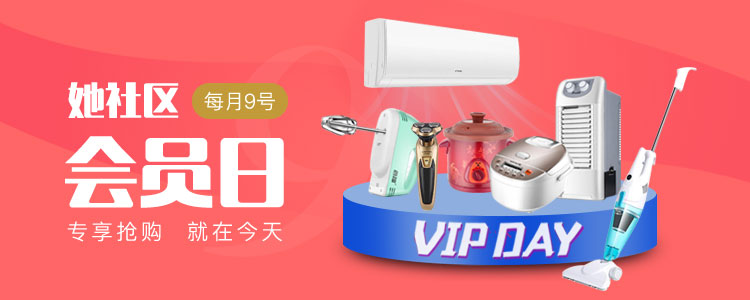
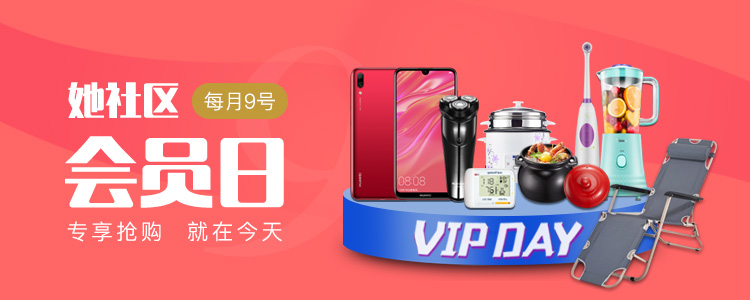
optimize

Changed region(s): [[0.4293, 0.06, 0.9813, 0.99], [0.276, 0.33, 0.368, 0.36]]

diff --git a/src/components/SideButton/SideButton.jsx b/src/components/SideButton/SideButton.jsx
@@ -1,0 +1,139 @@
+import React, { Component } from 'react'
+import { connect } from 'react-redux'
+import { bindActionCreators } from 'redux'
+
+import { Toast } from 'antd-mobile'
+import { _getQueryString, _send1_1 } from '@/common/js/tool'
+import { fetchCSJVideoStatus, fetchInteractiveAdList, reportInteractiveAdAction } from '@/API/ad'
+
+import * as homeActions from '@actions/homeActions'
+
+import './sideButton.scss'
+
+
+// 激励视频关闭
+const reward = {
+  rewardVerify: false, // 是否获得奖励
+  rewardAmount: 0, // 奖励个数
+  rewardName: '' // 奖励名称
+}
+
+class SideButton extends Component {
+
+  slotId = 0
+
+  constructor(props) {
+    super(props)
+    this.state = {
+      CAN_PLAY_JVIDEO: false,
+      adInfo: null
+    }
+    window.SideButtonContext = this
+  }
+
+  adClickHandler = () => {
+
+
+    const adInfo = this.state.adInfo
+    if (adInfo.promoType === 2) {
+      // 激励视频
+
+      this.slotId = _getQueryString('jcnsource') === 'ios' ? adInfo.iosCodePosition : adInfo.androidCodePosition
+      _send1_1('coinmall-click-' + this.state.adInfo.id, 'interact-ad', function () {
+        window.app_interface &&
+        window.app_interface.showTouTiaoRewardVideo(this.slotId)
+      })
+    } else if (adInfo.promoType === 1) {
+      // 普通链接
+      _send1_1('coinmall-click-' + this.state.adInfo.id, 'interact-ad', function () {
+        window.location.href = adInfo.promoUrl
+      })
+    }
+  }
+
+  componentDidMount() {
+    this.fetchInteractiveAdList()
+  }
+
+  // 互动广告上报
+  reportInteractiveAdAction = () => {
+    reportInteractiveAdAction({
+      adId: this.state.adInfo.id,
+      app: 'hers',
+      jcnappid: _getQueryString('jcnappid'),
+      v: _getQueryString('v')
+    })
+  }
+
+  // 获取激励视频信息
+  async fetchCSJVideoStatus(status) {
+    const res = await fetchCSJVideoStatus({ id: this.slotId }).then(res => res.data)
+    this.setState({ CAN_PLAY_JVIDEO: res.watchCount === 0 })
+    if (status === 'update') {
+      // 激励视频观看完毕之后更新用户信息（金币）
+      this.props.homeActions.getHomePageData()
+    }
+  }
+
+  // 获取互动广告悬浮按钮信息
+  async fetchInteractiveAdList() {
+    const adInfoList = await fetchInteractiveAdList({
+      app: 'hers',
+      channelId: 7,
+      jcnappid: _getQueryString('jcnappid'),
+      v: _getQueryString('v'),
+      requestTimestamp: new Date().getTime()
+    }).then(res => res.data.adInfoList)
+    this.setState({ adInfo: adInfoList[0] })
+    if (adInfoList[0] && adInfoList[0].promoType === 2) {
+      this.fetchCSJVideoStatus() // 加载激励视频播放次数信息
+    }
+    if (adInfoList[0]) {
+      _send1_1('coinmall-show-' + this.state.adInfo.id, 'interact-ad')
+    }
+  }
+
+  render() {
+    const adInfo = this.state.adInfo
+    let renderHtml = null
+    if (adInfo) {
+      if (adInfo.promoType === 2) {
+        // 激励视频
+        if (this.state.CAN_PLAY_JVIDEO) {
+          renderHtml = <div className="j-video-com" onClick={this.adClickHandler}>
+            <img src={this.state.adInfo.promoIconUrl} alt="" />
+          </div>
+        }
+      } else if (adInfo.promoType === 1) {
+        renderHtml = <div className="j-video-com" onClick={this.adClickHandler}>
+          <img src={this.state.adInfo.promoIconUrl} alt="" />
+        </div>
+      }
+    }
+    return renderHtml
+  }
+}
+
+window.onToutiaoVideoAdClose = function () {
+  if (parseInt(reward.rewardVerify) === 1 || reward.rewardVerify === true) {
+    // 可以观看并获得奖励
+    if (window.SideButtonContext.state.CAN_PLAY_JVIDEO) {
+      Toast.info(reward.rewardName + '+' + reward.rewardAmount, 2, () => {
+        window.SideButtonContext.fetchCSJVideoStatus('update')
+        window.SideButtonContext.reportInteractiveAdAction()
+      })
+    }
+  }
+}
+// 激励视频获得奖励
+window.onToutiaoVideoAdVerify = function (rewardVerify, rewardAmount, rewardName) {
+  reward.rewardVerify = rewardVerify
+  reward.rewardAmount = rewardAmount
+  reward.rewardName = rewardName
+}
+
+export default connect(() => ({}), dispatch => {
+  return {
+    homeActions: bindActionCreators(homeActions, dispatch)
+  }
+})(SideButton)

diff --git a/src/pages/GoodsDetail/GoodsDetail.jsx b/src/pages/GoodsDetail/GoodsDetail.jsx
@@ -18,7 +18,6 @@ import ConfirmModal from '@components/ConfirmModal/ConfirmModal'
 //css
 import './goodsDetail.scss'
 import CountDown from '@/components/CountDown'
-import Jvideo from '@/components/Jvideo/Jvideo'
 
 
 // 秒杀组件
@@ -234,7 +233,7 @@ class GoodsDetail extends Component {
   }
 
   goMakeMoney = () => {
-    window.location.href = 'http://bbs.j.cn/html/cointask/task-index.html'
+    window.location.href = 'https://bbs.j.cn/html/cointask/coin-task.html'
   }
 
   // 会员升级
@@ -504,7 +503,6 @@ class GoodsDetail extends Component {
           {this.state.isShowLimitModal && <ExhcangeUpperLimitModal onCloseLimitModal={this.hideLimitModal} />}
           {/*会员更新弹窗*/}
           {this.state.isShowVipUpgradeModal && <VipUpgradeModal onCloseVipUpgradeModal={this.closeVipUpgradeModal} onClickVipUpgrade={this.vipUpgrade} />}
-          <Jvideo />
         </section>
         : ""
 

diff --git a/src/store/reducers/goodsReducer.js b/src/store/reducers/goodsReducer.js
@@ -19,7 +19,7 @@ const initialState = {
 const goodsReducer = handleActions({
   // 获取首页商品列表
   [GETGOODSLIST]: (state, action) => {
-    action.data.homeGoodsList.map(good => {
+    action.data.homeGoodsList.forEach(good => {
       _send1_1(`show-${good.goodsId}`)
     })
     if (action.data.homeGoodsList.length >= state.pageSize) {
@@ -39,7 +39,7 @@ const goodsReducer = handleActions({
   [GETGOODSDETAIL]: (state, action) => ({ ...state, goodsDetail: action.goodsDetail }),
   [GETBUTTONSTATUS]: (state, action) => ({ ...state, buttonStatus: action.buttonStatus }),
   [GETCLASSIFYGOODSLIST]: (state, action) => {
-    action.data.classifyGoodsList.map(good => {
+    action.data.classifyGoodsList.forEach(good => {
       _send1_1(`show-${good.goodsId}`)
     })
     if (action.data.currentPage > 1) {

diff --git a/src/pages/VipDay/VipDay.jsx b/src/pages/VipDay/VipDay.jsx
@@ -45,6 +45,8 @@ class VipDay extends Component {
             statusItem.icon = '手机'
             statusItem.time = '19:00'
             break
+          default:
+            break
         }
         statusItem.state = statusItem.start ? '进行中' : '即将开始'
       })
@@ -121,8 +123,8 @@ class VipDay extends Component {
           />
           <SpecialArea
             onViewGoodsDetail={this.viewGoodsDetail}
-            title="19:00 空调秒杀"
-            slogan="399999空调带回家，享受6月清凉生活"
+            title="19:00 手机秒杀"
+            slogan="VIP专享秒杀，抢到就是赚到~"
             goodsList={this.state.nineteenGoods}
             hideMoreGoodsEntry={true}
           />

diff --git a/src/pages/Index/Index.jsx b/src/pages/Index/Index.jsx
@@ -5,7 +5,7 @@ import { withRouter } from 'react-router'
 import { Carousel, ListView } from 'antd-mobile'
 
 import GoodsItem from '@/components/GoodsItem/GoodsItem'
-import Jvideo from '@/components/Jvideo/Jvideo'
+import SideButton from '@/components/SideButton/SideButton'
 
 import * as goodsActions from '@actions/goodsActions'
 import * as homeActions from '@actions/homeActions'
@@ -217,7 +217,7 @@ class Index extends Component {
             :
             null
         }
-        <Jvideo />
+        <SideButton />
       </section>
     )
   }

diff --git a/src/common/js/tool.js b/src/common/js/tool.js
@@ -21,7 +21,7 @@ export function _timeFormate(ms) {
 }
 
 
-export const _send1_1 = (val, channel = 'coin-mall') => {
+export const _send1_1 = (val, channel = 'coin-mall', callback) => {
   const img1x1 = new Image()
   const jcnappid = _getQueryString('jcnappid')
   const jcnuserid = _getQueryString('jcnuserid')
@@ -32,6 +32,7 @@ export const _send1_1 = (val, channel = 'coin-mall') => {
   }
   img1x1.onload = function () {
     console.log('1*1 loaded')
+    ;(typeof callback === 'function') && callback()
   }
 }
 // 给Url添加参数

diff --git a/src/API/ad.js b/src/API/ad.js
@@ -1,3 +1,7 @@
 import req from '../common/js/http'
 
 export const fetchCSJVideoStatus = data => req('/api/fetchCSJVideoStatus', data)
+
+export const fetchInteractiveAdList = data => req('/api/fetchInteractiveAdList', data)
+
+export const reportInteractiveAdAction = data => req('/api/reportInteractiveAdAction', data)

diff --git a/src/components/SideButton/sideButton.scss b/src/components/SideButton/sideButton.scss
@@ -1,6 +1,6 @@
 .j-video-com {
   position: fixed;
-  right: 0;
+  right: 18px;
   bottom: 100px;
   width: 100px;
   height: 100px;
